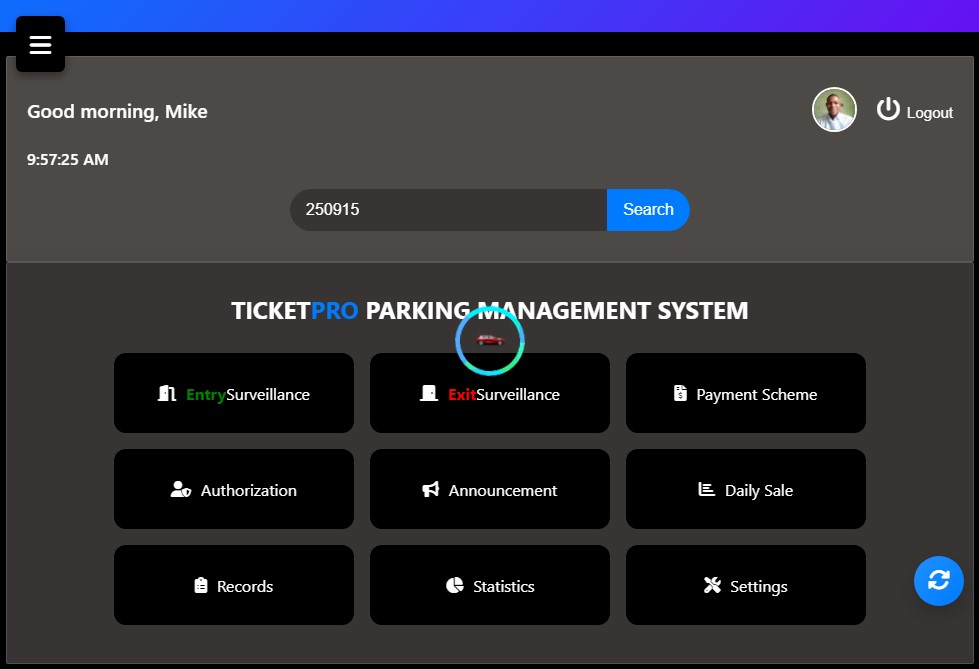
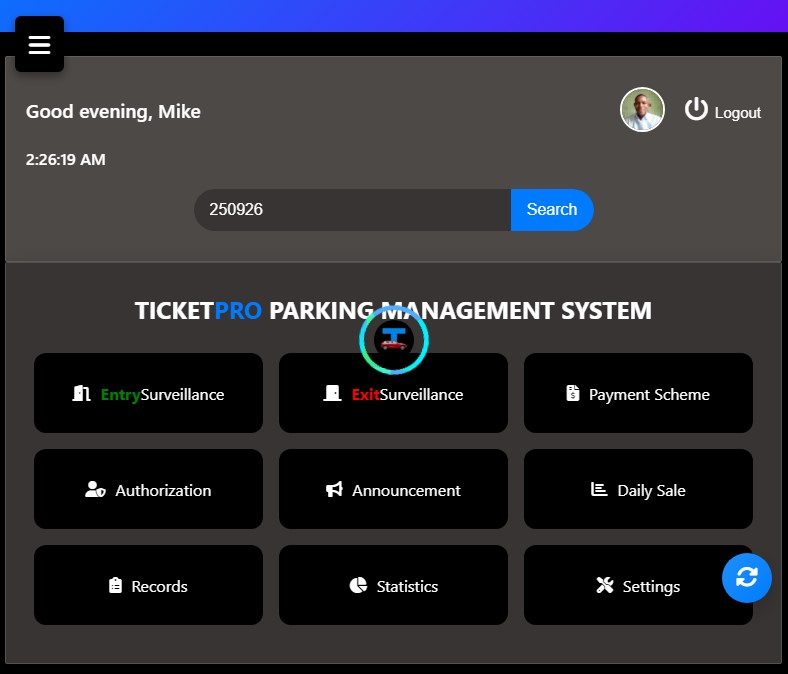
Add files via upload

diff --git a/daily_sales.html b/daily_sales.html
@@ -54,7 +54,7 @@
           <a href="payment.html"><i class="fa fa-credit-card"></i><h5>Payment Scheme</h5> </a>
           <a href="authorize.html"><i class="fa fa-user-shield"></i> <h5>Authorization</h5></a>
           <a href="announcement.html"><i class="fa fa-bullhorn"></i> <h5>Announcement</h5></a>
-          <a href="daily_sales.html" class="active"><i class="fa fa-cash-register"></i><h5>Daily Sales</h5> </a>
+          <a href="daily_sales.html" class="active"><i class="fa fa-cash-register"></i> <h5>Daily Sales</h5> </a>
           <a href="record.html"><i class="fa fa-folder-open"></i> <h5>Records</h5></a>
           <a href="stat.html"><i class="fa fa-chart-line"></i> <h5>Statistics</h5></a>
           <a href="setting.html"><i class="fa fa-cog"></i> <h5>Settings</h5></a>
@@ -64,7 +64,7 @@
 
     <!-- Main Content -->
     <div class="content e-docs">
-  <h1>Daily Sales</h1>
+  <h1><i class="fa fa-cash-register"></i> Daily Sales</h1>
 
   <section>
     <p>

diff --git a/index.html b/index.html
@@ -7,7 +7,7 @@
   <title>TicketPro Documentation</title>
 
   <meta property="og:title" content="TicketPro Documentation" />
-  <meta property="og:description" content="Official TicketPro documentation and setup guide. A smart vehicle management software built to monitor vehicle entry and exit at entities, control gate barriers, issue digital tickets, generate reports and track operator shifts across multiple locations." />
+  <meta property="og:description" content="Official TicketPro documentation and setup guide. A Smart vehicle entry & exit management for modern businesses." />
   <meta property="og:image" content="https://micheal4067.github.io/kuje_ticketPro_project/images/ticketPro_thumbnail.jpg" />
   <meta property="og:url" content="https://whimsical-kleicha-7ce037.netlify.app/" />
   <meta property="og:type" content="website" />

diff --git a/exit.html b/exit.html
@@ -67,7 +67,7 @@
 
       <!-- Main Content -->
       <div class="content e-docs">
-        <h1>Exit Surveillance</h1>
+        <h1><i class="fa fa-door-closed"></i> Exit Surveillance</h1>
 
         <section>
           <p>

diff --git a/stat.html b/stat.html
@@ -67,7 +67,7 @@
 
       <!-- Main Content -->
       <div class="content e-docs">
-        <h1>Statistics</h1>
+        <h1><i class="fa fa-chart-line"></i> Statistics</h1>
 
         <section>
           <p>

diff --git a/setting.html b/setting.html
@@ -60,7 +60,7 @@
 
       <!-- Main Content -->
       <div class="content e-docs">
-        <h1> Settings</h1>
+        <h1><i class="fa fa-cog"></i> Settings</h1>
 
         <section>
         <p>

diff --git a/entry.html b/entry.html
@@ -65,7 +65,7 @@
 
     <!-- Main Content -->
  <div class="content e-docs">
-  <h1>Entry Surveillance</h1>
+  <h1><i class="fa fa-door-open"></i> Entry Surveillance</h1>
 
   <section>
     <p>

diff --git a/record.html b/record.html
@@ -65,7 +65,7 @@
 
       <!-- Main Content -->
       <div class="content e-docs">
-        <h1>Records</h1>
+       <h1><i class="fa fa-folder-open"></i> Records</h1>
 
         
         <p>

diff --git a/authorize.html b/authorize.html
@@ -64,7 +64,7 @@
 
     <!-- Main Content -->
    <div class="content e-docs">
-  <h1>Authorization</h1>
+  <h1><i class="fa fa-user-shield"></i> Authorization</h1>
 
   <section>
     <p>

diff --git a/payment.html b/payment.html
@@ -63,7 +63,7 @@
 
     <!-- Main Content -->
  <div class="content e-docs">
-  <h1>Payment Scheme</h1>
+  <h1><i class="fa fa-credit-card"></i> Payment Scheme</h1>
 
   <section>
     <p>

diff --git a/announcement.html b/announcement.html
@@ -64,7 +64,7 @@
 
     <!-- Main Content -->
    <div class="content e-docs">
-  <h1>Announcement</h1>
+  <h1><i class="fa fa-bullhorn"></i> Announcement</h1>
 
   <section>
     <p>

diff --git a/css/top-bar.css b/css/top-bar.css
@@ -50,7 +50,7 @@
 }
 
 .header-logo {
-  height: 30px;
+  height: 50px;
   width: auto;
   margin-right: 0.5rem;
   border-radius: 6px;

diff --git a/css/toggle-side.css b/css/toggle-side.css
@@ -21,6 +21,7 @@
   z-index: 1000;
   display: flex;
   flex-direction: column;
+  overflow-y: auto;
 }
 
 .side_bar.active {
